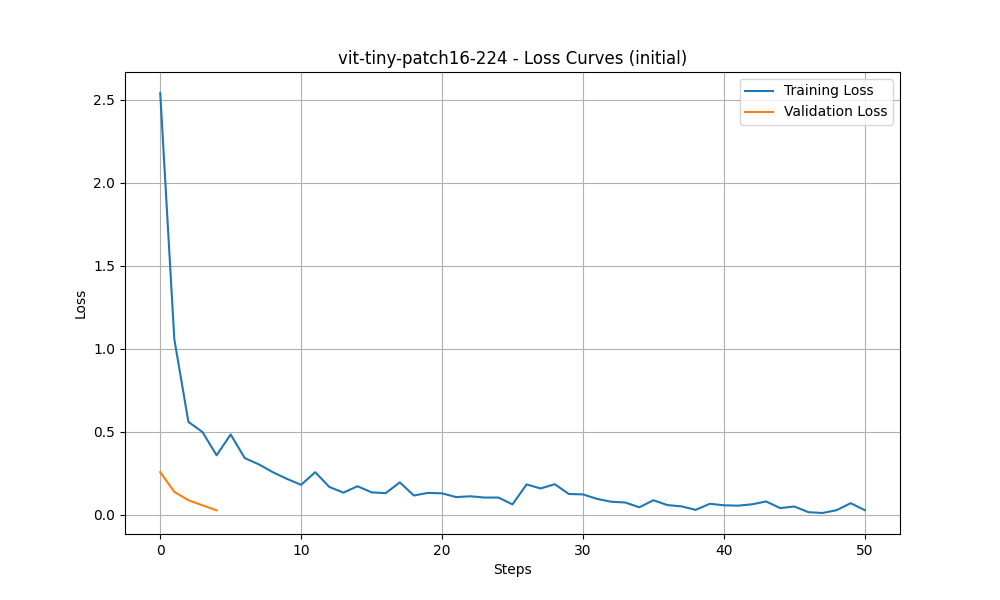
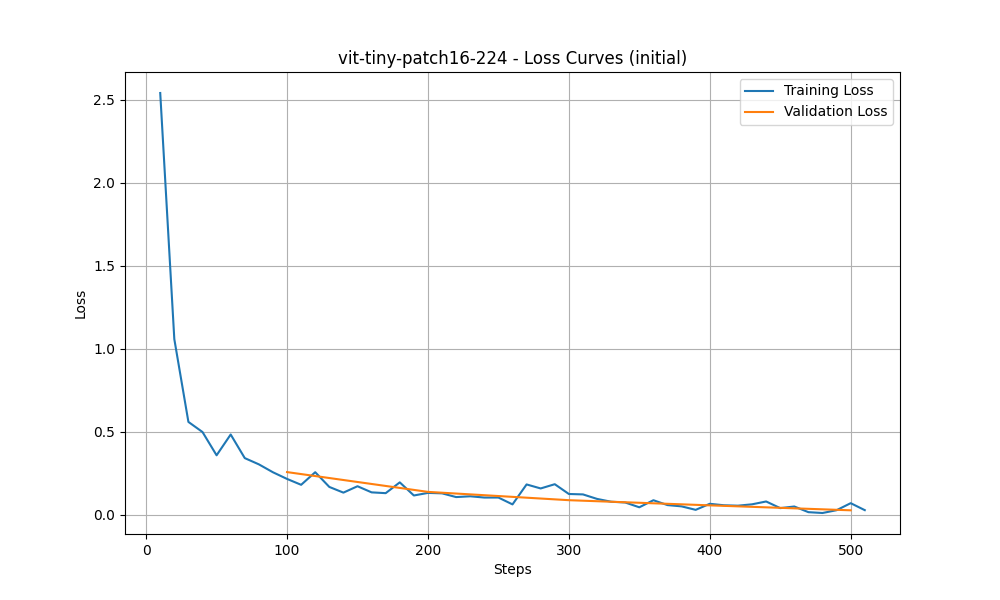
fix bug in loss plots

diff --git a/ViT_distillation_soft.py b/ViT_distillation_soft.py
@@ -14,8 +14,8 @@ else:
     print(f"Directory already exists: {output_dir}")
 
 # Load the dataset
-dataset_train = load_dataset("imagefolder", "PlantVillage", split="train")
-dataset_test = load_dataset("imagefolder", "PlantVillage", split="test")
+dataset_train = load_dataset("imagefolder", data_dir="PlantVillage", split="train")
+dataset_test = load_dataset("imagefolder", data_dir="PlantVillage", split="test")    
 print(f"Train dataset loaded with {len(dataset_train)} samples")
 print(f"Test dataset loaded with {len(dataset_test)} samples")
 
@@ -52,19 +52,20 @@ else:
 print(f"Using device: {device}")
 
 # Load the teacher model
-teacher_path = "./plantvillage_final_model_balanced"
+teacher_path = "./plantvillage_final_model"
 teacher_model = ViTForImageClassification.from_pretrained(teacher_path)
 teacher_model.to(device)
 teacher_model.eval()
 print(f"Teacher model loaded from {teacher_path}")
 
 # Load the student model (smaller ViT variant)
-student_id = 'google/vit-tiny-patch16-224'
+student_id = 'WinKawaks/vit-tiny-patch16-224'
 student_model = ViTForImageClassification.from_pretrained(
     student_id,
     num_labels=len(dataset_train.features['label'].names),
     id2label={str(i): label for i, label in enumerate(dataset_train.features['label'].names)},
-    label2id={label: str(i) for i, label in enumerate(dataset_train.features['label'].names)}
+    label2id={label: str(i) for i, label in enumerate(dataset_train.features['label'].names)},
+    ignore_mismatched_sizes=True  # Added to handle classifier size mismatch
 )
 student_model.to(device)
 print(f"Student model initialized from {student_id}")
@@ -77,7 +78,7 @@ class DistillationTrainer(Trainer):
         self.temperature = 2.0  # Temperature for softening probabilities
         self.alpha = 0.5       # Weight for distillation loss vs. hard label loss
 
-    def compute_loss(self, model, inputs, return_outputs=False):
+    def compute_loss(self, model, inputs, return_outputs=False, num_items_in_batch=None):
         # Student outputs
         student_outputs = model(**inputs)
         student_logits = student_outputs.logits
@@ -106,13 +107,18 @@ distillation_args = TrainingArguments(
     output_dir="./distilled_model_output",
     per_device_train_batch_size=16,
     per_device_eval_batch_size=16,
-    num_train_epochs=3,
-    eval_strategy="epoch",
-    save_strategy="epoch",
+    num_train_epochs=6,
+    eval_strategy="steps",
+    save_strategy="steps",
+    save_steps=100,
+    eval_steps=100,
     logging_steps=10,
     learning_rate=2e-4,
     save_total_limit=1,
+    remove_unused_columns=False,
+    push_to_hub=False,
     load_best_model_at_end=True,
+    metric_for_best_model="accuracy",
     remove_unused_columns=False,
 )
 
@@ -124,7 +130,8 @@ distillation_trainer = DistillationTrainer(
     train_dataset=prepared_train,
     eval_dataset=prepared_test,
     data_collator=collate_fn,
-    tokenizer=feature_extractor,
+    processing_class=feature_extractor,
+    compute_metrics=lambda p: {"accuracy": (p.predictions.argmax(1) == p.label_ids).mean()}
 )
 
 # Train the student model
@@ -132,70 +139,53 @@ print("Starting knowledge distillation...")
 distillation_trainer.train()
 print("Distillation training completed")
 
-# Function to get model size in MB
-def get_model_size(model, model_name="model"):
-    torch.save(model.state_dict(), f"{model_name}.pt")
-    size_mb = os.path.getsize(f"{model_name}.pt") / (1024 * 1024)  # Convert to MB
-    os.remove(f"{model_name}.pt")
-    return size_mb
+results_dir = "./results_distillation"
+if not os.path.exists(results_dir):
+    os.makedirs(results_dir)
+    
 
-# Evaluate models
-def evaluate_model(model):
-    trainer = Trainer(
-        model=model,
-        args=distillation_args,
-        data_collator=collate_fn,
-        eval_dataset=prepared_test,
-        tokenizer=feature_extractor,
-    )
-    eval_results = trainer.evaluate()
-    return eval_results['eval_accuracy']
+def plot_and_save_metrics(trainer, model_name, phase="initial"):
+    log_history = trainer.state.log_history
+    train_steps, train_loss = [], []
+    val_steps, val_loss = [], []
+    val_acc_steps, val_acc = [], []
+    
+    # Extract steps and corresponding metrics
+    for log in log_history:
+        if 'step' in log:
+            step = log['step']
+            if 'loss' in log:
+                train_steps.append(step)
+                train_loss.append(log['loss'])
+            if 'eval_loss' in log:
+                val_steps.append(step)
+                val_loss.append(log['eval_loss'])
+            if 'eval_accuracy' in log:
+                val_acc_steps.append(step)
+                val_acc.append(log['eval_accuracy'])
+    
+    # Plot loss
+    plt.figure(figsize=(10, 6))
+    plt.plot(train_steps, train_loss, label='Training Loss')
+    plt.plot(val_steps, val_loss, label='Validation Loss')
+    plt.xlabel('Steps')
+    plt.ylabel('Loss')
+    plt.title(f'{model_name} - Loss Curves ({phase})')
+    plt.legend()
+    plt.grid(True)
+    plt.savefig(os.path.join(results_dir, f'{model_name}_loss_{phase}.png'))
+    plt.close()
+    
+    # Plot accuracy
+    plt.figure(figsize=(10, 6))
+    plt.plot(val_acc_steps, val_acc, label='Validation Accuracy')
+    plt.xlabel('Steps')
+    plt.ylabel('Accuracy')
+    plt.title(f'{model_name} - Accuracy Curve ({phase})')
+    plt.legend()
+    plt.grid(True)
+    plt.savefig(os.path.join(results_dir, f'{model_name}_accuracy_{phase}.png'))
+    plt.close()
 
-# Evaluate teacher and student
-print("Evaluating teacher model...")
-teacher_accuracy = evaluate_model(teacher_model)
-teacher_size = get_model_size(teacher_model, "teacher_model")
 
-print("Evaluating student model...")
-student_accuracy = evaluate_model(student_model)
-student_size = get_model_size(student_model, "student_model")
-
-# Save the student model
-student_save_path = os.path.join(output_dir, "student_model")
-student_model.save_pretrained(student_save_path)
-print(f"Student model saved to {student_save_path}")
-
-# Store results
-models = ["Teacher (ViT-Base)", "Student (ViT-Tiny)"]
-accuracies = [teacher_accuracy, student_accuracy]
-sizes = [teacher_size, student_size]
-
-# Print results
-print("\nDistillation Results:")
-print(f"{'Model':<20} {'Accuracy':<10} {'Size (MB)':<10}")
-print("-" * 40)
-for model_name, acc, size in zip(models, accuracies, sizes):
-    print(f"{model_name:<20} {acc:<10.4f} {size:<10.2f}")
-
-# Write results to file
-with open("distillation_results.txt", "w") as f:
-    f.write("Distillation Results:\n")
-    f.write(f"{'Model':<20} {'Accuracy':<10} {'Size (MB)':<10}\n")
-    f.write("-" * 40 + "\n")
-    for model_name, acc, size in zip(models, accuracies, sizes):
-        f.write(f"{model_name:<20} {acc:<10.4f} {size:<10.2f}\n")
-print("Results written to distillation_results.txt")
-
-# Plot Accuracy vs Size
-plt.figure(figsize=(8, 6))
-plt.scatter(sizes, accuracies, color='blue', label='Model Comparison')
-for i, model_name in enumerate(models):
-    plt.annotate(model_name, (sizes[i], accuracies[i]), xytext=(5, 5), textcoords='offset points')
-plt.xlabel("Model Size (MB)")
-plt.ylabel("Accuracy")
-plt.title("Accuracy vs Model Size: Teacher vs Student")
-plt.grid(True)
-plt.legend()
-plt.savefig("distillation_plot.png")
-plt.show()
-print("Plot saved as distillation_plot.png")
+plot_and_save_metrics(distillation_trainer, model_name="soft distillation")

diff --git a/ViT_distillation_hard.py b/ViT_distillation_hard.py
@@ -14,8 +14,8 @@ else:
     print(f"Directory already exists: {output_dir}")
 
 # Load the dataset
-dataset_train = load_dataset("imagefolder", "PlantVillage", split="train")
-dataset_test = load_dataset("imagefolder", "PlantVillage", split="test")
+dataset_train = load_dataset("imagefolder", data_dir="PlantVillage", split="train")
+dataset_test = load_dataset("imagefolder", data_dir="PlantVillage", split="test")    
 print(f"Train dataset loaded with {len(dataset_train)} samples")
 print(f"Test dataset loaded with {len(dataset_test)} samples")
 
@@ -52,19 +52,20 @@ else:
 print(f"Using device: {device}")
 
 # Load the teacher model
-teacher_path = "./plantvillage_final_model_balanced"
+teacher_path = "./plantvillage_final_model"
 teacher_model = ViTForImageClassification.from_pretrained(teacher_path)
 teacher_model.to(device)
 teacher_model.eval()
 print(f"Teacher model loaded from {teacher_path}")
 
 # Load the student model (smaller ViT variant)
-student_id = 'google/vit-tiny-patch16-224'
+student_id = 'WinKawaks/vit-tiny-patch16-224'
 student_model = ViTForImageClassification.from_pretrained(
     student_id,
     num_labels=len(dataset_train.features['label'].names),
     id2label={str(i): label for i, label in enumerate(dataset_train.features['label'].names)},
-    label2id={label: str(i) for i, label in enumerate(dataset_train.features['label'].names)}
+    label2id={label: str(i) for i, label in enumerate(dataset_train.features['label'].names)},
+    ignore_mismatched_sizes=True  # Added to handle classifier size mismatch
 )
 student_model.to(device)
 print(f"Student model initialized from {student_id}")
@@ -74,7 +75,6 @@ class DistillationTrainer(Trainer):
     def __init__(self, teacher_model, *args, **kwargs):
         super().__init__(*args, **kwargs)
         self.teacher = teacher_model
-        self.temperature = 2.0  # Temperature for softening probabilities
         self.alpha = 0.5       # Weight for distillation loss vs. hard label loss
 
     def compute_loss(self, model, inputs, return_outputs=False):
@@ -86,13 +86,11 @@ class DistillationTrainer(Trainer):
         with torch.no_grad():
             teacher_outputs = self.teacher(**inputs)
             teacher_logits = teacher_outputs.logits
+            # Get teacher's hard predictions
+            teacher_predictions = torch.argmax(teacher_logits, dim=-1)
 
-        # Softmax with temperature
-        student_soft = torch.nn.functional.log_softmax(student_logits / self.temperature, dim=-1)
-        teacher_soft = torch.nn.functional.softmax(teacher_logits / self.temperature, dim=-1)
-
-        # Distillation loss (KL divergence)
-        distillation_loss = torch.nn.functional.kl_div(student_soft, teacher_soft, reduction='batchmean') * (self.temperature ** 2)
+        # Cross-entropy loss with teacher's hard predictions
+        distillation_loss = torch.nn.functional.cross_entropy(student_logits, teacher_predictions)
 
         # Original classification loss
         classification_loss = student_outputs.loss
@@ -106,7 +104,7 @@ distillation_args = TrainingArguments(
     output_dir="./distilled_model_output",
     per_device_train_batch_size=16,
     per_device_eval_batch_size=16,
-    num_train_epochs=3,
+    num_train_epochs=6,
     eval_strategy="epoch",
     save_strategy="epoch",
     logging_steps=10,
@@ -124,7 +122,7 @@ distillation_trainer = DistillationTrainer(
     train_dataset=prepared_train,
     eval_dataset=prepared_test,
     data_collator=collate_fn,
-    tokenizer=feature_extractor,
+    processing_class=feature_extractor,  # Changed from tokenizer=feature_extractor
 )
 
 # Train the student model

diff --git a/ViT_tiny.py b/ViT_tiny.py
@@ -69,24 +69,30 @@ model = ViTForImageClassification.from_pretrained(
 )
 model.to(device)
 
-# Function to plot and save metrics
 def plot_and_save_metrics(trainer, model_name, phase="initial"):
     log_history = trainer.state.log_history
-    train_loss, val_loss = [], []
-    train_acc, val_acc = [], []
+    train_steps, train_loss = [], []
+    val_steps, val_loss = [], []
+    val_acc_steps, val_acc = [], []
     
+    # Extract steps and corresponding metrics
     for log in log_history:
-        if 'loss' in log:
-            train_loss.append(log['loss'])
-        if 'eval_loss' in log:
-            val_loss.append(log['eval_loss'])
-        if 'eval_accuracy' in log:
-            val_acc.append(log['eval_accuracy'])
+        if 'step' in log:
+            step = log['step']
+            if 'loss' in log:
+                train_steps.append(step)
+                train_loss.append(log['loss'])
+            if 'eval_loss' in log:
+                val_steps.append(step)
+                val_loss.append(log['eval_loss'])
+            if 'eval_accuracy' in log:
+                val_acc_steps.append(step)
+                val_acc.append(log['eval_accuracy'])
     
     # Plot loss
     plt.figure(figsize=(10, 6))
-    plt.plot(train_loss, label='Training Loss')
-    plt.plot(val_loss, label='Validation Loss')
+    plt.plot(train_steps, train_loss, label='Training Loss')
+    plt.plot(val_steps, val_loss, label='Validation Loss')
     plt.xlabel('Steps')
     plt.ylabel('Loss')
     plt.title(f'{model_name} - Loss Curves ({phase})')
@@ -97,7 +103,7 @@ def plot_and_save_metrics(trainer, model_name, phase="initial"):
     
     # Plot accuracy
     plt.figure(figsize=(10, 6))
-    plt.plot(val_acc, label='Validation Accuracy')
+    plt.plot(val_acc_steps, val_acc, label='Validation Accuracy')
     plt.xlabel('Steps')
     plt.ylabel('Accuracy')
     plt.title(f'{model_name} - Accuracy Curve ({phase})')

diff --git a/ViT_trianing.py b/ViT_trianing.py
@@ -69,24 +69,30 @@ model = ViTForImageClassification.from_pretrained(
 )
 model.to(device)
 
-# Function to plot and save metrics
 def plot_and_save_metrics(trainer, model_name, phase="initial"):
     log_history = trainer.state.log_history
-    train_loss, val_loss = [], []
-    train_acc, val_acc = [], []
+    train_steps, train_loss = [], []
+    val_steps, val_loss = [], []
+    val_acc_steps, val_acc = [], []
     
+    # Extract steps and corresponding metrics
     for log in log_history:
-        if 'loss' in log:
-            train_loss.append(log['loss'])
-        if 'eval_loss' in log:
-            val_loss.append(log['eval_loss'])
-        if 'eval_accuracy' in log:
-            val_acc.append(log['eval_accuracy'])
+        if 'step' in log:
+            step = log['step']
+            if 'loss' in log:
+                train_steps.append(step)
+                train_loss.append(log['loss'])
+            if 'eval_loss' in log:
+                val_steps.append(step)
+                val_loss.append(log['eval_loss'])
+            if 'eval_accuracy' in log:
+                val_acc_steps.append(step)
+                val_acc.append(log['eval_accuracy'])
     
     # Plot loss
     plt.figure(figsize=(10, 6))
-    plt.plot(train_loss, label='Training Loss')
-    plt.plot(val_loss, label='Validation Loss')
+    plt.plot(train_steps, train_loss, label='Training Loss')
+    plt.plot(val_steps, val_loss, label='Validation Loss')
     plt.xlabel('Steps')
     plt.ylabel('Loss')
     plt.title(f'{model_name} - Loss Curves ({phase})')
@@ -97,7 +103,7 @@ def plot_and_save_metrics(trainer, model_name, phase="initial"):
     
     # Plot accuracy
     plt.figure(figsize=(10, 6))
-    plt.plot(val_acc, label='Validation Accuracy')
+    plt.plot(val_acc_steps, val_acc, label='Validation Accuracy')
     plt.xlabel('Steps')
     plt.ylabel('Accuracy')
     plt.title(f'{model_name} - Accuracy Curve ({phase})')
